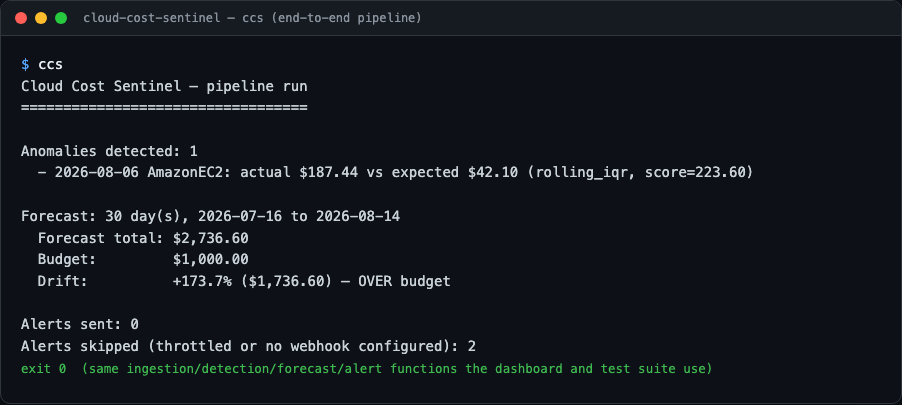
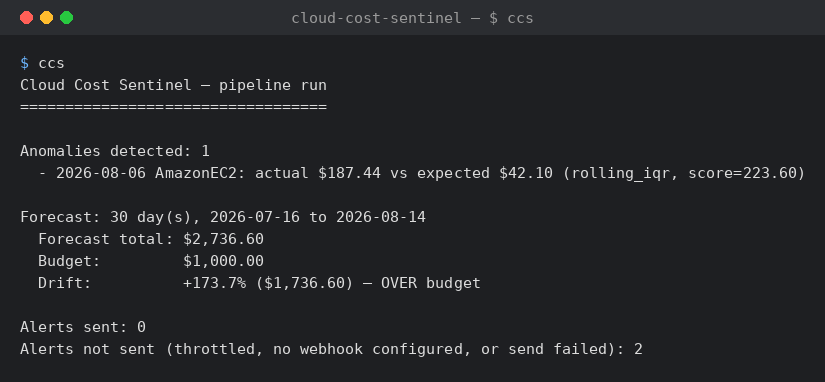
docs(screenshots): regenerate all screenshots from the real app and CLI
The CLI image carried a hand-typed 'exit 0 (same ingestion/... functions
the dashboard and test suite use)' line that ccs never prints, and its
'Alerts skipped' label is now 'Alerts not sent'. The dashboard images
showed the old misleading budget line and alert text with its dollar
signs swallowed by LaTeX rendering.

scripts/render_cli_screenshot.py runs ccs from the repo root and draws
its captured output verbatim under the exact command that ran.
scripts/capture_dashboard_screenshots.py starts the Streamlit app and
captures 01-05 with Playwright.

diff --git a/scripts/capture_dashboard_screenshots.py b/scripts/capture_dashboard_screenshots.py
@@ -1,0 +1,131 @@
+"""Regenerate the dashboard screenshots (docs/screenshots/01-05) from a live app.
+
+Starts ``streamlit run src/cloud_cost_sentinel/dashboard/app.py`` from the
+repository root with no Slack webhook configured, opens it in headless
+Chromium via Playwright, and captures each view. Every pixel comes from the
+running app; nothing is edited afterwards.
+
+Usage (from the repository root, after ``pip install -e ".[dev]"``)::
+
+    pip install playwright && playwright install chromium
+    python scripts/capture_dashboard_screenshots.py
+
+Set ``CHROMIUM_PATH`` to use an already-installed Chromium instead.
+"""
+
+from __future__ import annotations
+
+import os
+import subprocess
+import sys
+import time
+import urllib.request
+from pathlib import Path
+
+from playwright.sync_api import sync_playwright
+
+REPO_ROOT = Path(__file__).resolve().parent.parent
+SCREENSHOT_DIR = REPO_ROOT / "docs" / "screenshots"
+APP_PATH = "src/cloud_cost_sentinel/dashboard/app.py"
+PORT = 8599
+URL = f"http://localhost:{PORT}"
+VIEWPORT = {"width": 1280, "height": 800}
+
+
+def wait_for_server(timeout_s: float = 60.0) -> None:
+    deadline = time.monotonic() + timeout_s
+    while time.monotonic() < deadline:
+        try:
+            with urllib.request.urlopen(f"{URL}/_stcore/health", timeout=2) as response:
+                if response.status == 200:
+                    return
+        except OSError:
+            time.sleep(0.5)
+    raise TimeoutError(f"streamlit did not become healthy on {URL}")
+
+
+def scroll_to(page, selector: str, offset_px: int) -> None:
+    """Scroll the app's main container so ``selector`` sits ``offset_px`` below the top."""
+    page.evaluate(
+        """([selector, offset]) => {
+            const el = document.querySelector(selector);
+            const main = document.querySelector('[data-testid="stMain"]') || document.scrollingElement;
+            const top = el.getBoundingClientRect().top - main.getBoundingClientRect().top + main.scrollTop;
+            main.scrollTo(0, top - offset);
+            window.scrollTo(0, top - offset);
+        }""",
+        [selector, offset_px],
+    )
+    page.wait_for_timeout(500)
+
+
+def capture(page) -> None:
+    page.goto(URL)
+    page.wait_for_selector('[data-testid="stMetric"]', timeout=120_000)
+    page.wait_for_function("document.querySelectorAll('.js-plotly-plot .main-svg').length >= 4", timeout=60_000)
+    page.wait_for_timeout(2000)
+
+    page.screenshot(path=SCREENSHOT_DIR / "02-metrics-and-trend.png")
+
+    # Streamlit scrolls an inner container, so full_page=True only captures
+    # one viewport; grow the viewport to the content height instead.
+    content_height = page.evaluate("document.querySelector('[data-testid=\"stMain\"]').scrollHeight")
+    page.set_viewport_size({"width": VIEWPORT["width"], "height": content_height})
+    page.wait_for_timeout(1500)
+    page.screenshot(path=SCREENSHOT_DIR / "01-overview.png")
+    page.set_viewport_size(VIEWPORT)
+    page.wait_for_timeout(1500)
+
+    scroll_to(page, '[data-testid="stDataFrame"]', 100)
+    page.screenshot(path=SCREENSHOT_DIR / "03-anomaly-detail.png")
+
+    forecast_heading = page.get_by_role("heading", name="Forecast vs. budget")
+    forecast_heading.evaluate("el => el.setAttribute('data-capture', 'forecast')")
+    scroll_to(page, '[data-capture="forecast"]', 80)
+    page.screenshot(path=SCREENSHOT_DIR / "04-forecast-vs-budget.png")
+
+    page.locator('[data-testid="stExpander"] summary').first.click()
+    page.wait_for_timeout(500)
+    alerts_heading = page.get_by_role("heading", name="Alerts")
+    alerts_heading.evaluate("el => el.setAttribute('data-capture', 'alerts')")
+    scroll_to(page, '[data-capture="alerts"]', 360)
+    page.screenshot(path=SCREENSHOT_DIR / "05-alerts.png")
+
+
+def main() -> int:
+    env = {key: value for key, value in os.environ.items() if key != "CCS_SLACK_WEBHOOK_URL"}
+    server = subprocess.Popen(
+        [
+            sys.executable,
+            "-m",
+            "streamlit",
+            "run",
+            APP_PATH,
+            "--server.headless",
+            "true",
+            "--server.port",
+            str(PORT),
+            "--browser.gatherUsageStats",
+            "false",
+        ],
+        cwd=REPO_ROOT,
+        env=env,
+        stdout=subprocess.DEVNULL,
+        stderr=subprocess.DEVNULL,
+    )
+    try:
+        wait_for_server()
+        with sync_playwright() as playwright:
+            browser = playwright.chromium.launch(executable_path=os.environ.get("CHROMIUM_PATH"))
+            page = browser.new_page(viewport=VIEWPORT, device_scale_factor=1)
+            capture(page)
+            browser.close()
+    finally:
+        server.terminate()
+        server.wait(timeout=10)
+    print(f"wrote 01-05 to {SCREENSHOT_DIR.relative_to(REPO_ROOT)}")
+    return 0
+
+
+if __name__ == "__main__":
+    raise SystemExit(main())

diff --git a/scripts/render_cli_screenshot.py b/scripts/render_cli_screenshot.py
@@ -1,0 +1,97 @@
+"""Regenerate docs/screenshots/06-cli-pipeline.png from a real ``ccs`` run.
+
+Runs ``ccs`` from the repository root with no Slack webhook configured,
+captures its combined stdout/stderr, and draws the prompt line plus that
+output, unedited, as a terminal-style image. Nothing in the image is typed
+by hand: the command shown is the command that ran.
+
+Usage (from the repository root, after ``pip install -e ".[dev]"``)::
+
+    python scripts/render_cli_screenshot.py
+
+Uses Pillow and matplotlib's bundled DejaVu Sans Mono, both already
+installed by the ``forecast`` extra.
+"""
+
+from __future__ import annotations
+
+import os
+import subprocess
+import sys
+from pathlib import Path
+
+from matplotlib import font_manager
+from PIL import Image, ImageDraw, ImageFont
+
+REPO_ROOT = Path(__file__).resolve().parent.parent
+OUTPUT_PATH = REPO_ROOT / "docs" / "screenshots" / "06-cli-pipeline.png"
+COMMAND = ["ccs"]
+MAX_OUTPUT_LINES = 40
+
+FONT_SIZE = 15
+PADDING = 20
+TITLE_BAR_HEIGHT = 34
+BACKGROUND = "#1e1f22"
+TITLE_BAR = "#2b2d31"
+FOREGROUND = "#dcdcdc"
+PROMPT = "#6cb6ff"
+TITLE_TEXT = "#9a9a9a"
+
+
+def run_command() -> tuple[list[str], int]:
+    env = {key: value for key, value in os.environ.items() if key != "CCS_SLACK_WEBHOOK_URL"}
+    completed = subprocess.run(
+        COMMAND,
+        cwd=REPO_ROOT,
+        env=env,
+        stdout=subprocess.PIPE,
+        stderr=subprocess.STDOUT,
+        text=True,
+    )
+    lines = completed.stdout.rstrip("\n").split("\n")
+    if len(lines) > MAX_OUTPUT_LINES:
+        lines = [*lines[:MAX_OUTPUT_LINES], "... (output truncated)"]
+    return lines, completed.returncode
+
+
+def render(output_lines: list[str]) -> Image.Image:
+    font = ImageFont.truetype(font_manager.findfont(font_manager.FontProperties(family="DejaVu Sans Mono")), FONT_SIZE)
+    prompt_line = "$ " + " ".join(COMMAND)
+    all_lines = [prompt_line, *output_lines]
+
+    line_height = int(FONT_SIZE * 1.5)
+    text_width = max(font.getlength(line) for line in all_lines)
+    width = int(text_width) + 2 * PADDING
+    height = TITLE_BAR_HEIGHT + 2 * PADDING + line_height * len(all_lines)
+
+    image = Image.new("RGB", (width, height), BACKGROUND)
+    draw = ImageDraw.Draw(image)
+    draw.rectangle([0, 0, width, TITLE_BAR_HEIGHT], fill=TITLE_BAR)
+    for i, color in enumerate(("#ff5f57", "#febc2e", "#28c840")):
+        x = PADDING + i * 20
+        draw.ellipse([x, 11, x + 12, 23], fill=color)
+    title = f"{REPO_ROOT.name} — {prompt_line}"
+    draw.text(((width - font.getlength(title)) / 2, 9), title, font=font, fill=TITLE_TEXT)
+
+    y = TITLE_BAR_HEIGHT + PADDING
+    draw.text((PADDING, y), "$ ", font=font, fill=PROMPT)
+    draw.text((PADDING + font.getlength("$ "), y), " ".join(COMMAND), font=font, fill=FOREGROUND)
+    for line in output_lines:
+        y += line_height
+        draw.text((PADDING, y), line, font=font, fill=FOREGROUND)
+    return image
+
+
+def main() -> int:
+    output_lines, returncode = run_command()
+    if returncode != 0:
+        print("\n".join(output_lines), file=sys.stderr)
+        print(f"{' '.join(COMMAND)} exited {returncode}; not writing a screenshot", file=sys.stderr)
+        return 1
+    render(output_lines).save(OUTPUT_PATH)
+    print(f"wrote {OUTPUT_PATH.relative_to(REPO_ROOT)}")
+    return 0
+
+
+if __name__ == "__main__":
+    raise SystemExit(main())

diff --git a/README.md b/README.md
@@ -7,7 +7,10 @@ dashboard to tie it all together.
 
 ## Preview
 
-The Streamlit dashboard running against the sample CUR fixtures:
+The Streamlit dashboard running against the sample CUR fixtures. These
+images are captured from the running app and a real `ccs` run by
+`scripts/capture_dashboard_screenshots.py` and
+`scripts/render_cli_screenshot.py`:
 
 ![Dashboard overview — metrics, daily spend trend, forecast vs. budget, and alerts](docs/screenshots/01-overview.png)
 
